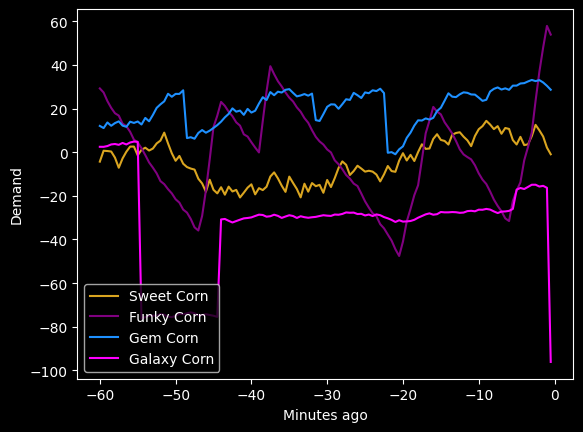
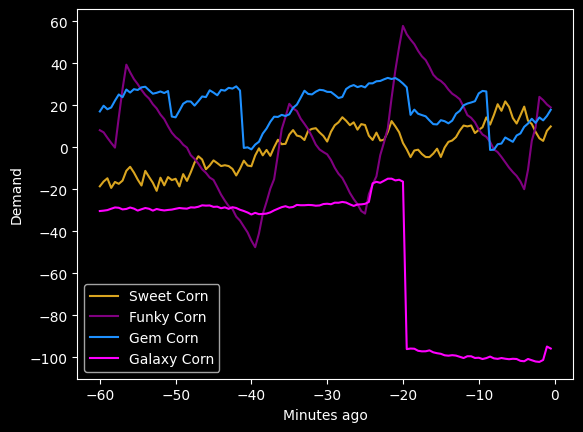
gem corn update

diff --git a/CornPrices/classes/CornTypes.py b/CornPrices/classes/CornTypes.py
@@ -111,14 +111,18 @@ class GemCorn(Corn):
 
         self.display_color = "dodgerblue"
 
+        self.line = 25
+
     def update_supply(self):
         demand = self.get_demand_percent()
-        if demand < 25:
+        if demand < self.line:
             amount_change = uniform(-.02,.04) * self.demand
             self.supply -= amount_change
         else:
-            if uniform(0,100) < 10:
-                amount_change = uniform(.10,.30) * self.demand
+            if uniform(0,100) < 1:
+                amount_change = uniform(.20,.40) * self.demand
+                if uniform(0,100) < 10:
+                    self.line = uniform(4,40)
             else:
                 amount_change = uniform(-.02,.02) * self.demand
             self.supply += amount_change
